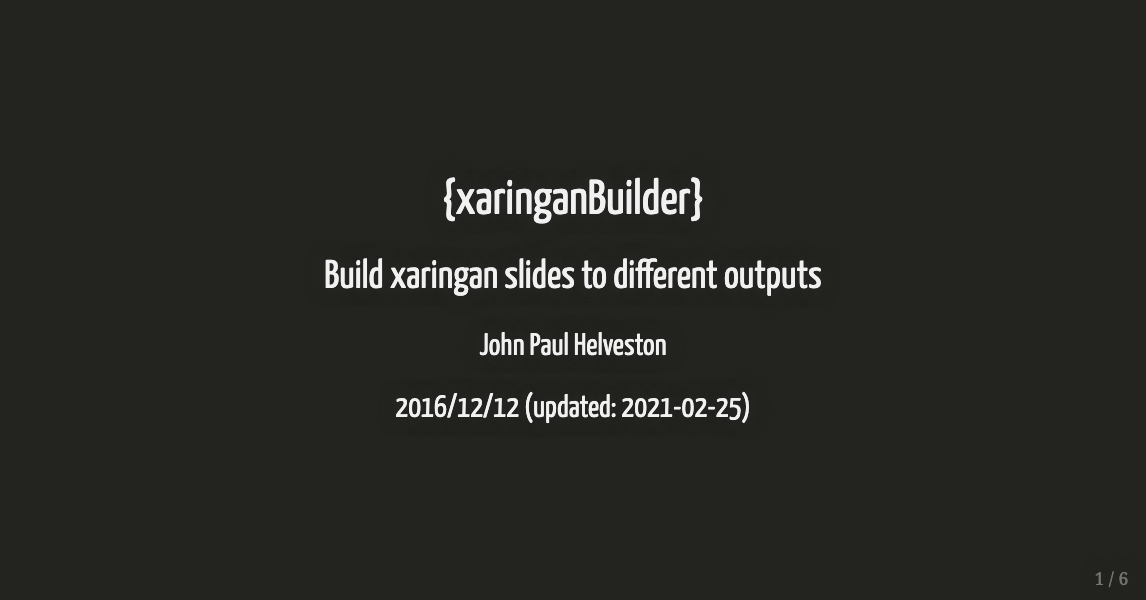
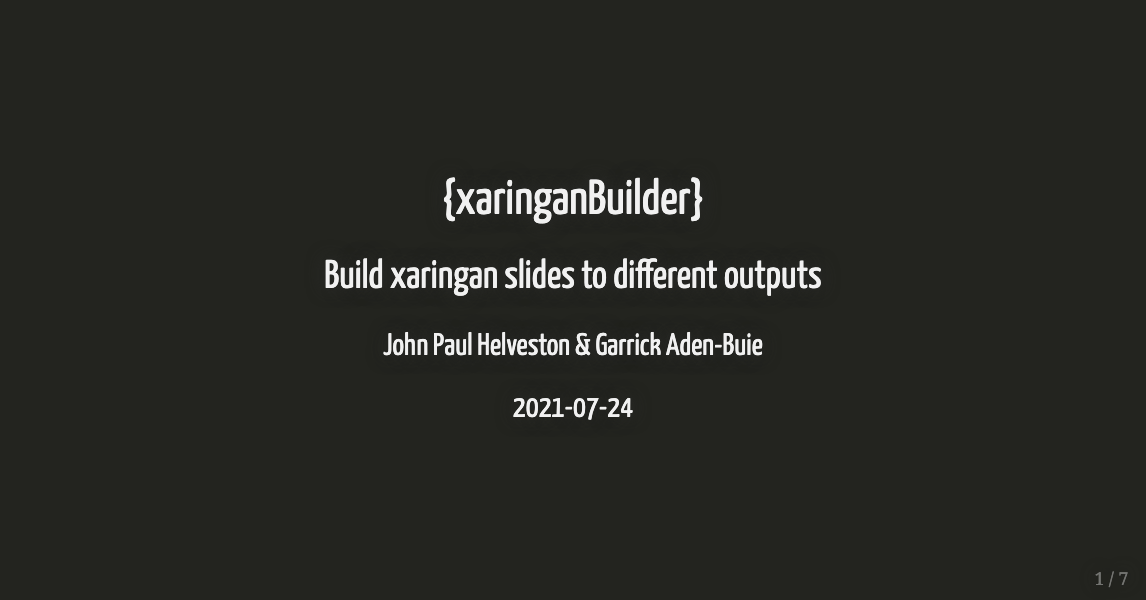
update readme and images in man/

Changed region(s): [[0.336, 0.54, 0.6719, 0.6], [0.336, 0.66, 0.6719, 0.72], [0.9773, 0.96, 1.0, 0.99]]

diff --git a/man/figures/slides.html b/man/figures/slides.html
@@ -3,7 +3,8 @@
   <head>
     <title>{xaringanBuilder}</title>
     <meta charset="utf-8" />
-    <meta name="author" content="John Paul Helveston" />
+    <meta name="author" content="John Paul Helveston &amp; Garrick Aden-Buie" />
+    <meta name="date" content="2021-07-24" />
     <script src="libs/header-attrs/header-attrs.js"></script>
     <link href="libs/remark-css/default.css" rel="stylesheet" />
     <link href="libs/remark-css/default-fonts.css" rel="stylesheet" />
@@ -16,8 +17,8 @@ class: center, middle, inverse, title-slide
 
 # {xaringanBuilder}
 ## Build xaringan slides to different outputs
-### John Paul Helveston
-### 2016/12/12 (updated: 2021-02-25)
+### John Paul Helveston &amp; Garrick Aden-Buie
+### 2021-07-24
 
 ---
 
@@ -41,20 +42,25 @@ You can install the current version of xaringanBuilder from GitHub:
 remotes::install_github("jhelvy/xaringanBuilder")
 ```
 
+--
+
 .pull-left[
-## Supported output types: 
+#### Supported output types: 
 
 - html
 - pdf
 - gif
+- mp4
 - pptx
 - png 
 - social: png image of first slide sized for social media sharing (e.g. Twitter)
 
 ]
 
+--
+
 .pull-right[
-## Build hierarchy:
+#### Build hierarchy:
 
 ```
 Rmd
@@ -69,6 +75,8 @@ Rmd
                    |
                    |--&gt; gif
                    |
+                   |--&gt; mp4
+                   |
                    |--&gt; pptx
 ```
 
@@ -78,12 +86,13 @@ Rmd
 
 ## Partial / incremental slides
 
-For `pdf`, `png`, `gif`, and `pptx` output types, if you want to build a new slide for each increment on [incremental slides](https://slides.yihui.org/xaringan/incremental.html#1), set `partial_slides = TRUE` in any of the following build functions:
+For `pdf`, `png`, `gif`, `mp4`, and `pptx` output types, if you want to build a new slide for each increment on [incremental slides](https://slides.yihui.org/xaringan/incremental.html#1), set `partial_slides = TRUE` in any of the following build functions:
 
 ```
 build_pdf()
 build_png()
 build_gif()
+build_mp4()
 build_pptx()
 build_all()
 ```
@@ -103,7 +112,7 @@ build_pdf("slides.html", partial_slides = TRUE)
 
 ## Complex slides
 
-"Complex" slides are slides that contain [panelsets](https://pkg.garrickadenbuie.com/xaringanExtra/#/panelset) (like the one on this slide) or other html widgets / advanced features that might not render well as a pdf. To render these on separate slides, set `complex_slides = TRUE` in `build_pdf()`, `build_png()`, `build_gif()`, `build_pptx()`, or `build_all()`.
+"Complex" slides are slides that contain [panelsets](https://pkg.garrickadenbuie.com/xaringanExtra/#/panelset) (like the one on this slide) or other html widgets / advanced features that might not render well as a pdf. To render these on separate slides, set `complex_slides = TRUE` in `build_pdf()`, `build_png()`, `build_gif()`, `build_mp4()`, `build_pptx()`, or `build_all()`.
 
 .panelset[
 .panel[.panel-name[Chunk]
@@ -118,23 +127,43 @@ head(mtcars)
 
 
 ```
-##                    mpg cyl disp  hp drat    wt  qsec
-## Mazda RX4         21.0   6  160 110 3.90 2.620 16.46
-## Mazda RX4 Wag     21.0   6  160 110 3.90 2.875 17.02
-## Datsun 710        22.8   4  108  93 3.85 2.320 18.61
-## Hornet 4 Drive    21.4   6  258 110 3.08 3.215 19.44
-## Hornet Sportabout 18.7   8  360 175 3.15 3.440 17.02
-## Valiant           18.1   6  225 105 2.76 3.460 20.22
-##                   vs am gear carb
-## Mazda RX4          0  1    4    4
-## Mazda RX4 Wag      0  1    4    4
-## Datsun 710         1  1    4    1
-## Hornet 4 Drive     1  0    3    1
-## Hornet Sportabout  0  0    3    2
-## Valiant            1  0    3    1
+##                    mpg cyl disp  hp drat    wt  qsec vs am
+## Mazda RX4         21.0   6  160 110 3.90 2.620 16.46  0  1
+## Mazda RX4 Wag     21.0   6  160 110 3.90 2.875 17.02  0  1
+## Datsun 710        22.8   4  108  93 3.85 2.320 18.61  1  1
+## Hornet 4 Drive    21.4   6  258 110 3.08 3.215 19.44  1  0
+## Hornet Sportabout 18.7   8  360 175 3.15 3.440 17.02  0  0
+## Valiant           18.1   6  225 105 2.76 3.460 20.22  1  0
+##                   gear carb
+## Mazda RX4            4    4
+## Mazda RX4 Wag        4    4
+## Datsun 710           4    1
+## Hornet 4 Drive       3    1
+## Hornet Sportabout    3    2
+## Valiant              3    1
 ```
 ]
 ]
+
+---
+
+## Use the `slides` argument to control which slides get built
+
+Examples building from PDF to PNG:
+
+
+```r
+# Build the first or last slide only
+build_png("slides.pdf", output_file = "first_slide.png", slides = "first")
+build_png("slides.pdf", output_file = "last_slide.png", slides = "last")
+
+# Choose subsets of slides
+build_png("slides.pdf", slides = c(1, 3, 5)) 
+build_png("slides.pdf", slides = -1) # Negative indices remove slides
+
+# Build all slides
+build_png("slides.pdf", slides = "all")
+```
 
 ---
 class: center, middle, inverse
@@ -143,7 +172,11 @@ class: center, middle, inverse
 
 Slides created via the R package [**xaringan**](https://github.com/yihui/xaringan).
 
-More at https://jhelvy.github.io/xaringanBuilder
+Package documentation at https://jhelvy.github.io/xaringanBuilder
+
+&lt;a href='https://xaringan.club/'&gt;&lt;img src='https://github.com/dynastyprocess/graphics/raw/main/xaringanclub/xaringanclub.png' align="center" height="142" /&gt;&lt;/a&gt;
+
+Visit [xaringan.club](https://xaringan.club/) for more {xaringan} tools!
     </textarea>
 <style data-target="print-only">@media screen {.remark-slide-container{display:block;}.remark-slide-scaler{box-shadow:none;}}</style>
 <script src="https://remarkjs.com/downloads/remark-latest.min.js"></script>

diff --git a/man/figures/libs/panelset/panelset.js b/man/figures/libs/panelset/panelset.js
@@ -35,6 +35,12 @@
     const identifyPanelName = (item) => {
       let name = 'Panel'
 
+      // If the item doesn't have a parent element, then we've already processed
+      // it, probably because we're in an Rmd, and it's been removed from the DOM
+      if (!item.parentElement) {
+        return
+      }
+
       // In R Markdown when header-attrs.js is present, we may have found a
       // section header but the class attributes won't be duplicated on the <hX> tag
       if (
@@ -70,6 +76,9 @@
 
     const processPanelItem = (item) => {
       const name = identifyPanelName(item)
+      if (!name) {
+        return null
+      }
       return { name, content: item.children, id: uniquePanelId(name) }
     }
 
@@ -132,13 +141,27 @@
       return res
     }
 
-    const updateUrl = (panelset, panel) => {
-      let params = new URLSearchParams(window.location.search)
+    /*
+     * Update selected panel for panelset or delete panelset from query string
+     *
+     * @param panelset Panelset ID to update in the search params
+     * @param panel Panel ID of selected panel in panelset, or null to delete from search params
+     * @param params Current params object, or params from window.location.search
+     */
+    function updateSearchParams (panelset, panel, params = new URLSearchParams(window.location.search)) {
       if (panel) {
         params.set(panelset, panel)
       } else {
         params.delete(panelset)
       }
+      return params
+    }
+
+    /*
+     * Update the URL to match params
+     */
+    const updateUrl = (params) => {
+      if (typeof params === 'undefined') return
       params = params.toString() ? ('?' + params.toString()) : ''
       const { pathname, hash } = window.location
       const uri = pathname + params + hash
@@ -181,15 +204,36 @@
       clicked.classList.add('panel-tab-active')
       clicked.setAttribute('aria-selected', true)
 
+      // emit window resize event to trick html widgets into fitting to the panel width
+      window.dispatchEvent(new Event('resize'))
+
       // update query string
-      updateUrl(panelClicked, panelTabClicked)
+      const params = updateSearchParams(panelClicked, panelTabClicked)
+      updateUrl(params)
     }
 
     const initPanelSet = (panelset, idx) => {
-      const panels = Array.from(panelset.querySelectorAll('.panel'))
+      let panels = Array.from(panelset.querySelectorAll('.panel'))
+      if (!panels.length && panelset.matches('.section[class*="level"]')) {
+        // we're in tabset-alike R Markdown
+        const panelsetLevel = [...panelset.classList]
+          .filter(s => s.match(/^level/))[0]
+          .replace('level', '')
+
+        // move children that aren't inside a section up above the panelset
+        Array.from(panelset.children).forEach(function (el) {
+          if (el.matches('div.section[class*="level"]')) return
+          panelset.parentElement.insertBefore(el, panelset)
+        })
+
+        // panels are all .sections with .level<panelsetLevel + 1>
+        const panelLevel = +panelsetLevel + 1
+        panels = Array.from(panelset.querySelectorAll(`.section.level${panelLevel}`))
+      }
+
       if (!panels.length) return
 
-      const contents = panels.map(processPanelItem)
+      const contents = panels.map(processPanelItem).filter(o => o !== null)
       const newPanelSet = reflowPanelSet(contents, idx)
       panelset.parentNode.insertBefore(newPanelSet, panelset)
       panelset.parentNode.removeChild(panelset)
@@ -251,8 +295,12 @@
         document.activeElement.blur()
 
         // clear search query for panelsets in current slide
-        document.querySelectorAll('.remark-visible .panelset')
-          .forEach(ps => updateUrl(ps.id, null))
+        const params = [...document.querySelectorAll('.remark-visible .panelset')]
+          .reduce(function (params, panelset) {
+            return updateSearchParams(panelset.id, null, params)
+          }, new URLSearchParams(window.location.search))
+
+        updateUrl(params)
       })
 
       slideshow.on('afterShowSlide', slide => {
@@ -262,7 +310,13 @@
           // only first panel gets focus
           slidePanels[0].panel.focus()
           // but still update the url to reflect all active panels
-          slidePanels.forEach(({ panelId, panelSetId }) => updateUrl(panelSetId, panelId))
+          const params = slidePanels.reduce(
+            function (params, { panelId, panelSetId }) {
+              return updateSearchParams(panelSetId, panelId, params)
+            },
+            new URLSearchParams(window.location.search)
+          )
+          updateUrl(params)
         }
       })
     }

diff --git a/man/figures/libs/panelset/panelset.css b/man/figures/libs/panelset/panelset.css
@@ -13,7 +13,7 @@
   --panel-tab-active-border-color: currentColor;
   --panel-tab-hover-border-color: currentColor;
   --panel-tab-inactive-opacity: 0.5;
-  --panel-tab-font-family: Menlo, Consolas, Monaco, Liberation Mono, Lucida Console, monospace;
+  --panel-tab-font-family: inherit;
 }
 
 .panelset * {
@@ -66,6 +66,18 @@
 .panelset .panel-tabs .panel-tab > a {
   color: currentColor;
   text-decoration: none;
+  border: none;
+}
+
+.panelset .panel-tabs .panel-tab > a:focus {
+  outline: none;
+  text-decoration: none;
+  border: none;
+}
+
+.panelset .panel-tabs .panel-tab > a:hover {
+  text-decoration: none;
+  border: none;
 }
 
 .panelset .panel-tabs .panel-tab:hover {

diff --git a/README.md b/README.md
@@ -155,23 +155,26 @@ first slide).
 Input can be a Rmd file, html file, pdf file, or url:
 
 ``` r
-# By default, creates a png of only the first slide:
-build_png("slides.Rmd")
-build_png("slides.html")
-build_png("slides.pdf")
-build_png("https://jhelvy.github.io/xaringanBuilder/reference/figures/slides.html")
+# By default, a png of only the first slide is built
+build_png("slides.Rmd", output_file = "title_slide.png")
+build_png("slides.html", output_file = "title_slide.png")
+build_png("slides.pdf", output_file = "title_slide.png")
+build_png(
+  "https://jhelvy.github.io/xaringanBuilder/reference/figures/slides.html",
+  output_file = "title_slide.png"
+)
 
-# Build zip file of different subsets of slides
-build_png("slides.pdf", slides = c(1, 3, 5))
+# Use the `slides` argument to control which slides get build into pngs
+build_png("slides.pdf", output_file = "first_slide.png", slides = "first")
+build_png("slides.pdf", output_file = "last_slide.png", slides = "last")
+build_png("slides.pdf", slides = c(1, 3, 5)) # Choose subsets of slides
+build_png("slides.pdf", slides = -1) # Negative indices remove slides
 build_png("slides.pdf", slides = "all")
-build_png("slides.pdf", slides = "first")
-build_png("slides.pdf", slides = "last")
-build_png("slides.pdf", slides = -1) # Negative indexing removes slides
 ```
 
 Example:
 
-<img src="man/figures/slides.png" width=500>
+<img src="man/figures/title_slide.png" width=500>
 
 ### Build Social
 
@@ -279,12 +282,12 @@ if you cited it. You can get the citation information by typing
 
 To cite xaringanBuilder in publications use:
 
-John Paul Helveston (2021). xaringanBuilder: Functions for building
-xaringan slides to different outputs.
+Helveston, John Paul and Aden-Buie, Garrick (2021). xaringanBuilder:
+Functions for building ‘xaringan’ slides to different outputs.
 
 A BibTeX entry for LaTeX users is
 
 @Manual{, title = {xaringanBuilder: Functions for building xaringan
-slides to different outputs.}, author = {John Paul Helveston}, year =
-{2021}, note = {R package version 0.0.8}, url =
-{<https://jhelvy.github.io/xaringanBuilder/>}, }
+slides to different outputs.}, author = {{Helveston} and John Paul and
+{Aden-Buie} and {Garrick}}, year = {2021}, note = {R package version
+0.0.9}, url = {<https://jhelvy.github.io/xaringanBuilder/>}, }
